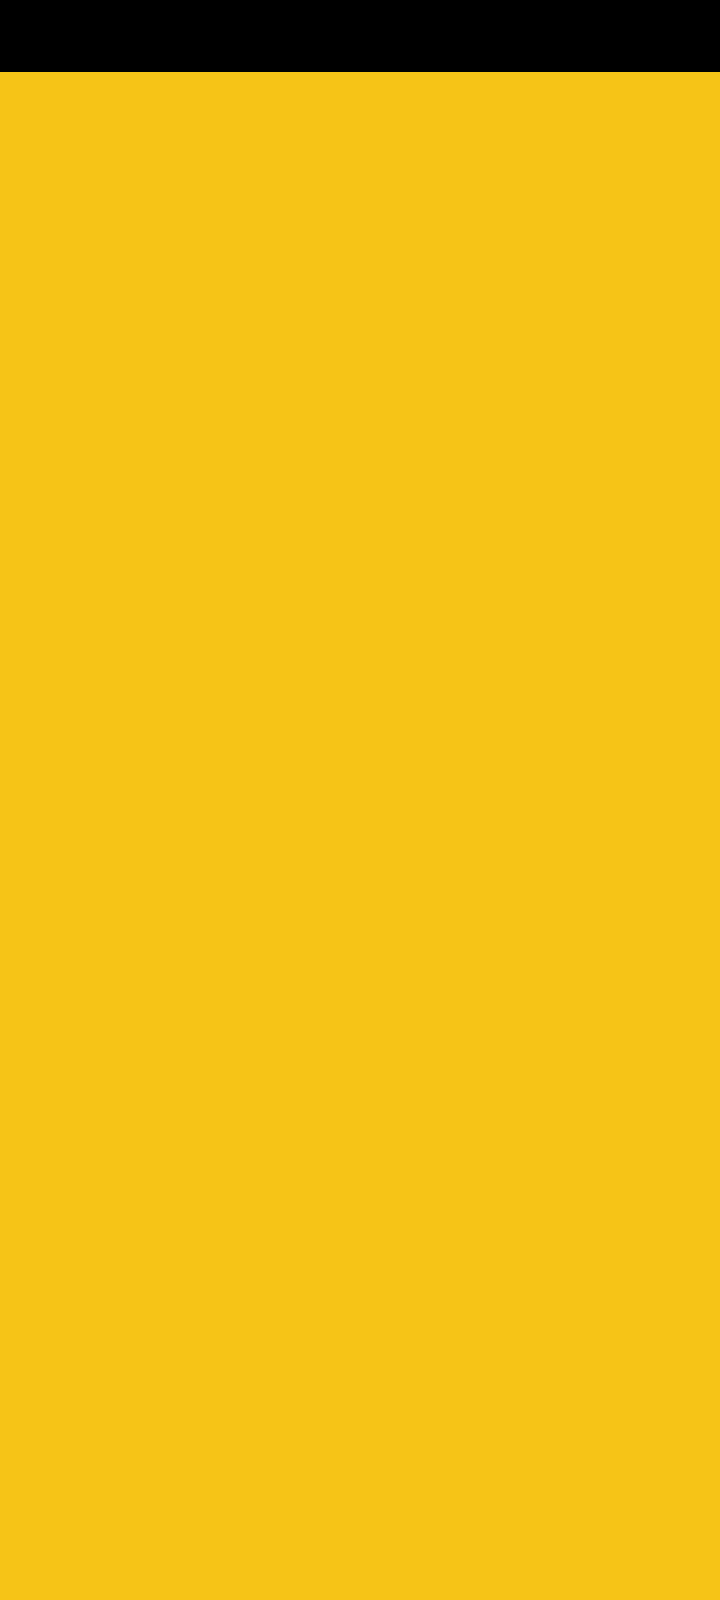
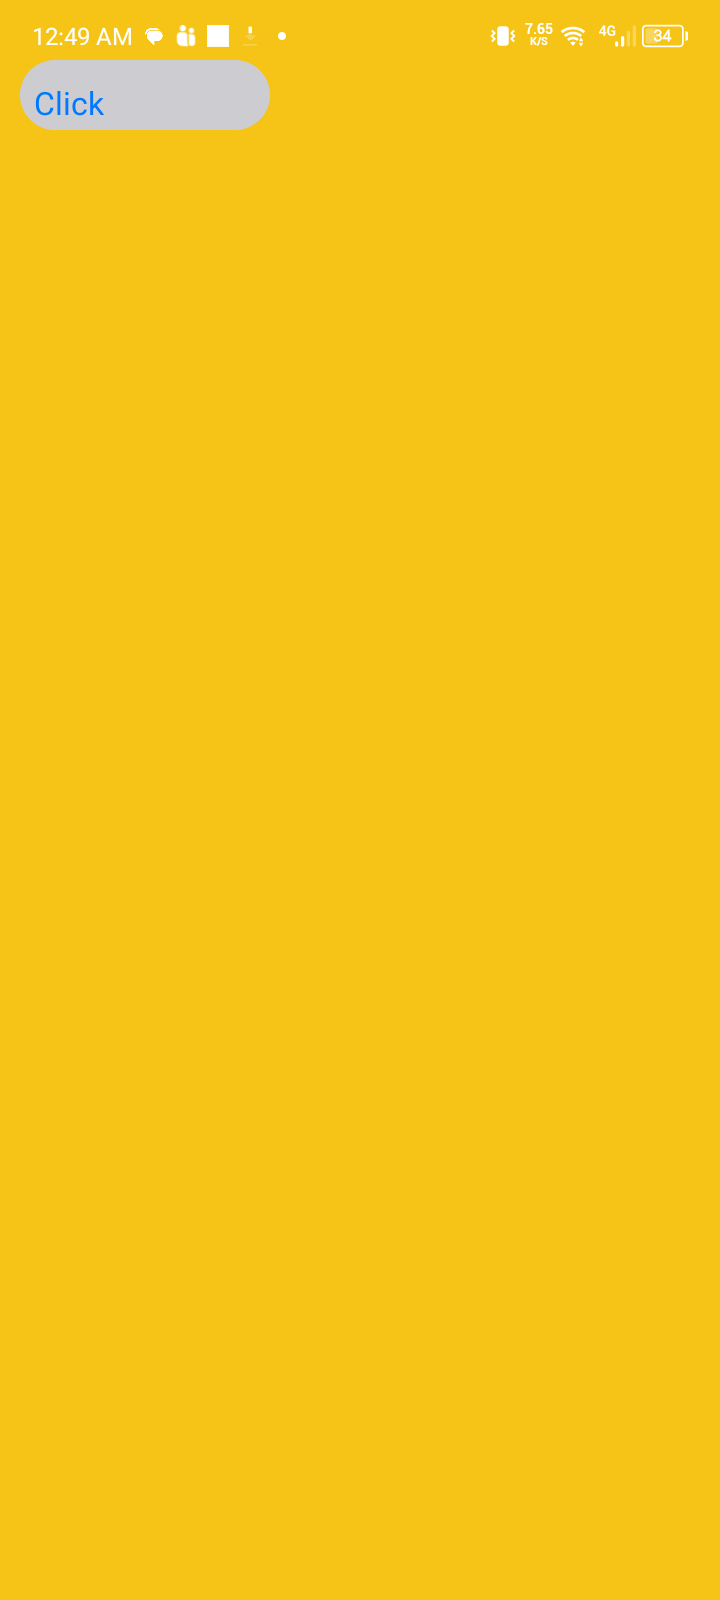
Update

Changed region(s): [[0.0, 0.0, 1.0, 0.0938]]

diff --git a/README.md b/README.md
@@ -1,9 +1,10 @@
 # BananaSDK
+![BananaSDK](images/sdk.png)
 Basically a SDK (Software Development Kit) like Apple's SDK, Android's SDK and Microsoft's Windows SDK. It supposed to be cross-platform (Desktop, Mobile and for Websites). It is currently under-development.
 
 Preview of testing the SDK on Android:
     ![Preview](images/preview.png)
     
-It's basically just a yellow screen for now
+It's basically just a yellow screen and a clickable button for now for testing
 
 The SDK for Android is being tested using a Debug APK.